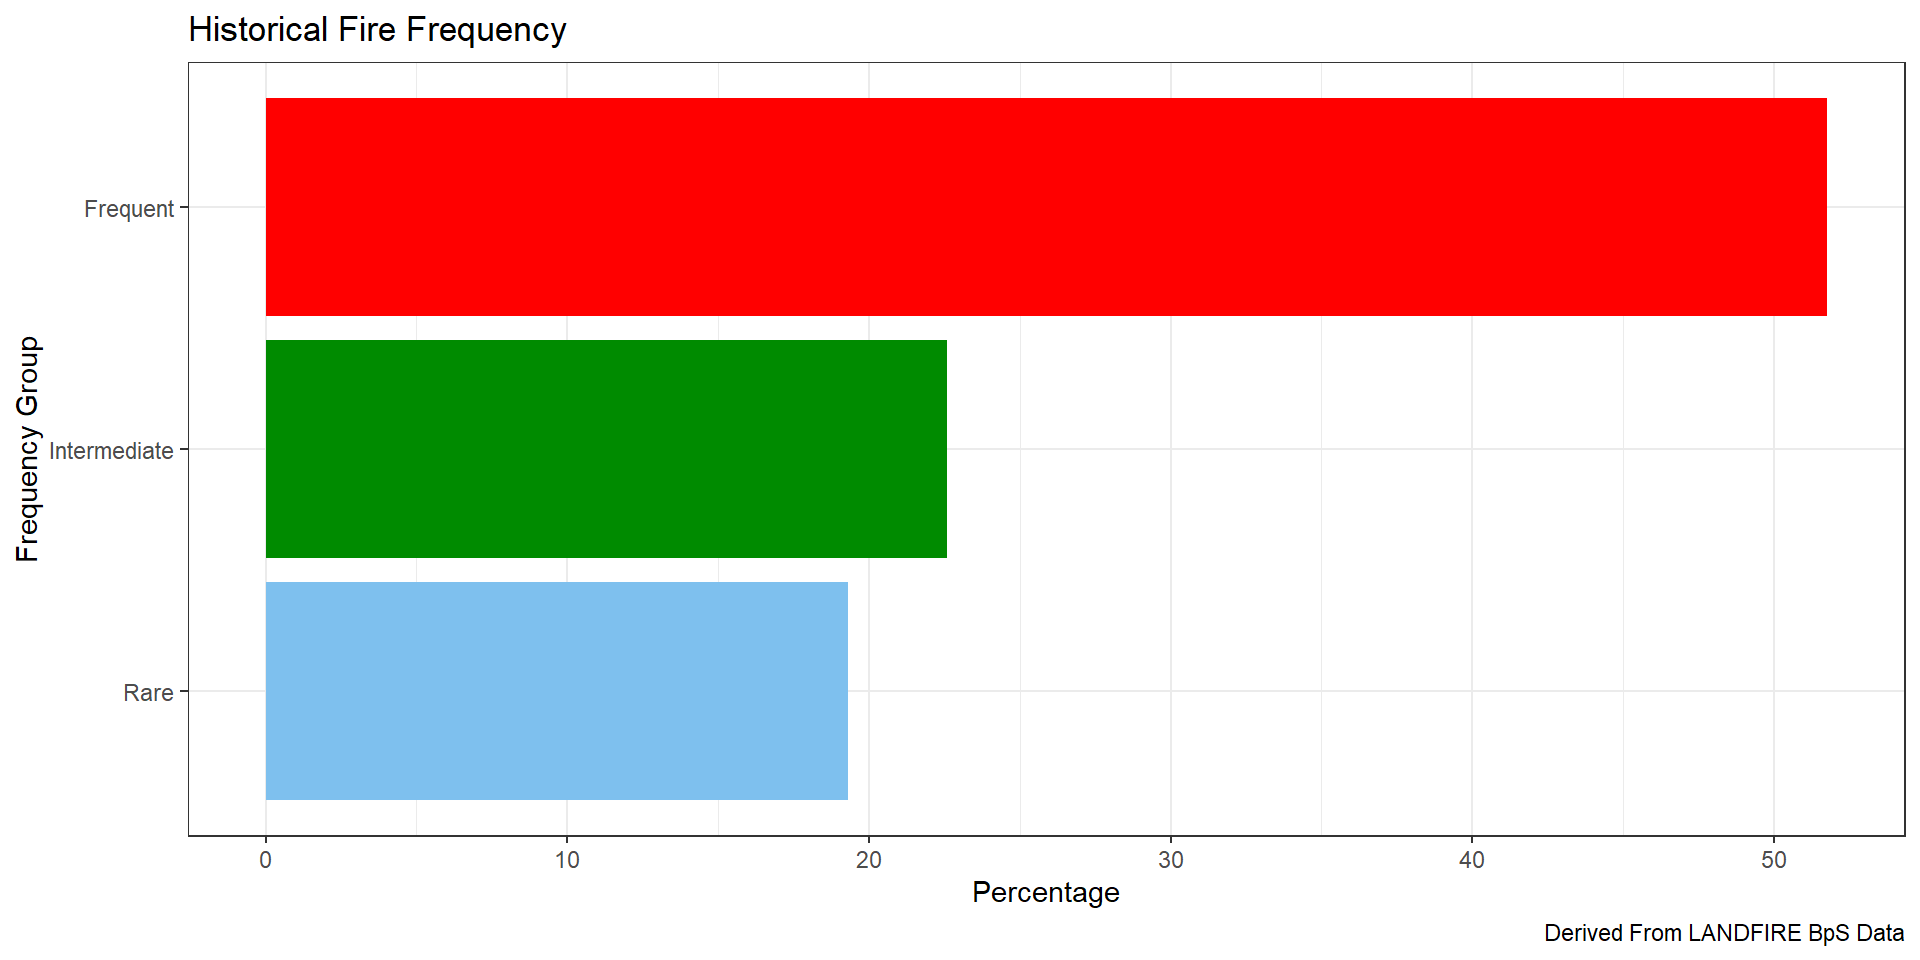
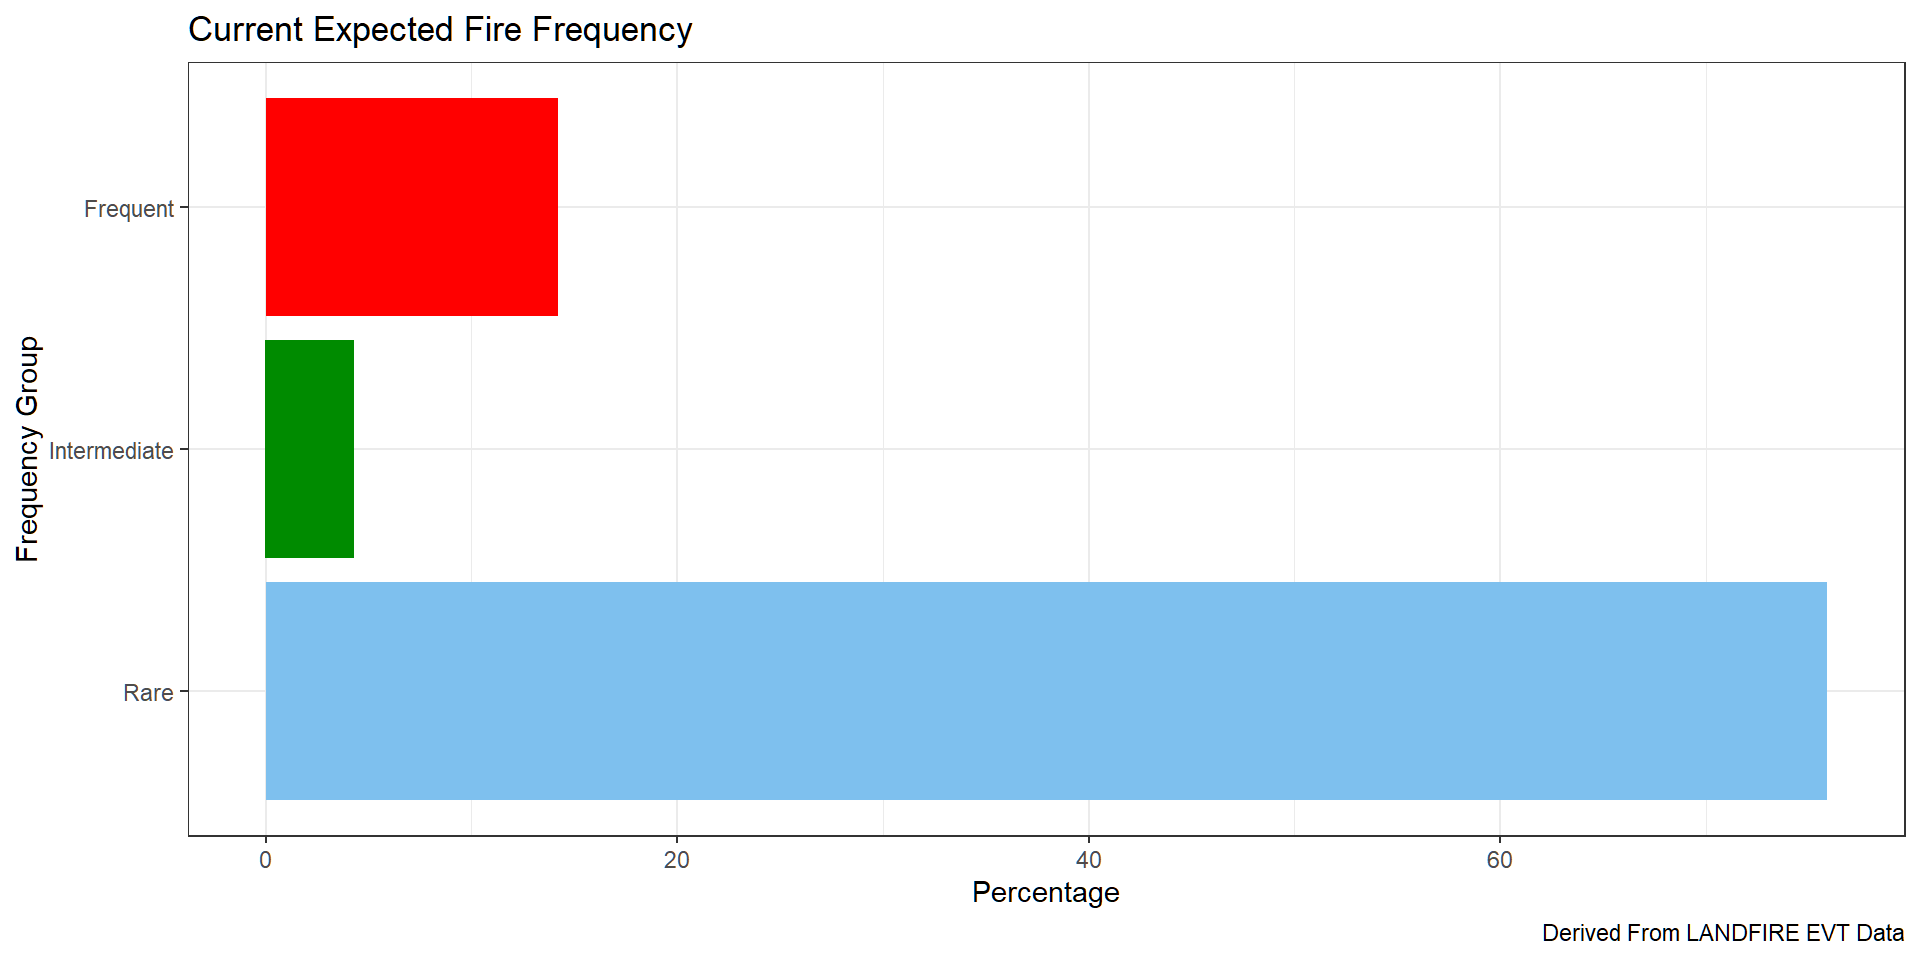
Randy merged in Silas's work, added content to his slides

diff --git a/slides.html b/slides.html
@@ -341,16 +341,34 @@ Kelly Ahern, Silas Pickhardt and Randy Swaty
 <section id="so-what-indigenous-burning" class="slide level2">
 <h2>So what-Indigenous burning</h2>
 
-<img data-src="images/tulowiecki_2024.png" class="quarto-figure quarto-figure-center r-stretch" style="width:70.0%"><p>Map from Tulowiecki 2024, witness tree classification from Paciorek et al., 2016</p>
+<img data-src="images/tulowiecki_2024.png" class="quarto-figure quarto-figure-center r-stretch" style="width:90.0%"></section>
+<section id="so-what-resist-adapt-direct" class="slide level2">
+<h2>So what-Resist, Adapt, Direct</h2>
+<p><br></p>
+<p>“Despite striking global change, management to ensure healthy landscapes and sustained natural resources has tended to set objectives on the basis of the historical range of variability in stationary ecosystems.” <em>Magness et al.&nbsp;(Bioscience 2022)</em></p>
+<p><br></p>
+<div style="text-align: center;">
+<h2>
+What is plausible?
+</h2>
+</div>
 </section>
-<section id="so-what" class="slide level2">
-<h2>So what</h2>
-<p>RAD screenshot information</p>
-</section>
-<section id="our-data" class="slide level2">
-<h2>Our data</h2>
-
-<img data-src="images/side_by_side.jpg" class="quarto-figure quarto-figure-center r-stretch" style="width:70.0%"><p>Data from landfire.gov</p>
+<section id="section" class="slide level2">
+<h2></h2>
+<div class="columns">
+<div class="column" style="width:60%;">
+<p><img data-src="images/conus_mfri.jpg"></p>
+</div><div class="column" style="width:40%;">
+<p>LANDFIRE datasets allow us to look at past and present</p>
+<p><br></p>
+<p>Biophysical Settings models document “reference” conditions</p>
+</div></div>
+<p><br></p>
+<div style="text-align: center;">
+<h2>
+https://landfire.gov/
+</h2>
+</div>
 </section>
 <section id="regional-look" class="slide level2">
 <h2>Regional look</h2>
@@ -416,19 +434,19 @@ Kelly Ahern, Silas Pickhardt and Randy Swaty
 <section id="results--historical" class="slide level2">
 <h2>Results- Historical</h2>
 
-<img data-src="slides_files/figure-revealjs/unnamed-chunk-6-1.png" class="quarto-figure quarto-figure-center r-stretch" style="width:70.0%"></section>
+<img data-src="slides_files/figure-revealjs/unnamed-chunk-5-1.png" class="quarto-figure quarto-figure-center r-stretch" style="width:70.0%"></section>
 <section id="results--current" class="slide level2">
 <h2>Results- Current</h2>
 
-<img data-src="slides_files/figure-revealjs/unnamed-chunk-7-1.png" class="quarto-figure quarto-figure-center r-stretch" style="width:70.0%"></section>
+<img data-src="slides_files/figure-revealjs/unnamed-chunk-6-1.png" class="quarto-figure quarto-figure-center r-stretch" style="width:70.0%"></section>
 <section id="results--manageable-landscape" class="slide level2">
 <h2>Results- Manageable landscape</h2>
 
-<img data-src="slides_files/figure-revealjs/unnamed-chunk-8-1.png" class="quarto-figure quarto-figure-center r-stretch" style="width:70.0%"></section>
+<img data-src="slides_files/figure-revealjs/unnamed-chunk-7-1.png" class="quarto-figure quarto-figure-center r-stretch" style="width:70.0%"></section>
 <section id="the-change" class="slide level2">
 <h2>The change</h2>
 
-<img data-src="slides_files/figure-revealjs/unnamed-chunk-9-1.png" class="quarto-figure quarto-figure-center r-stretch" style="width:70.0%"><div class="quarto-auto-generated-content">
+<img data-src="slides_files/figure-revealjs/unnamed-chunk-8-1.png" class="quarto-figure quarto-figure-center r-stretch" style="width:70.0%"><div class="quarto-auto-generated-content">
 <div class="footer footer-default">
 
 </div>
